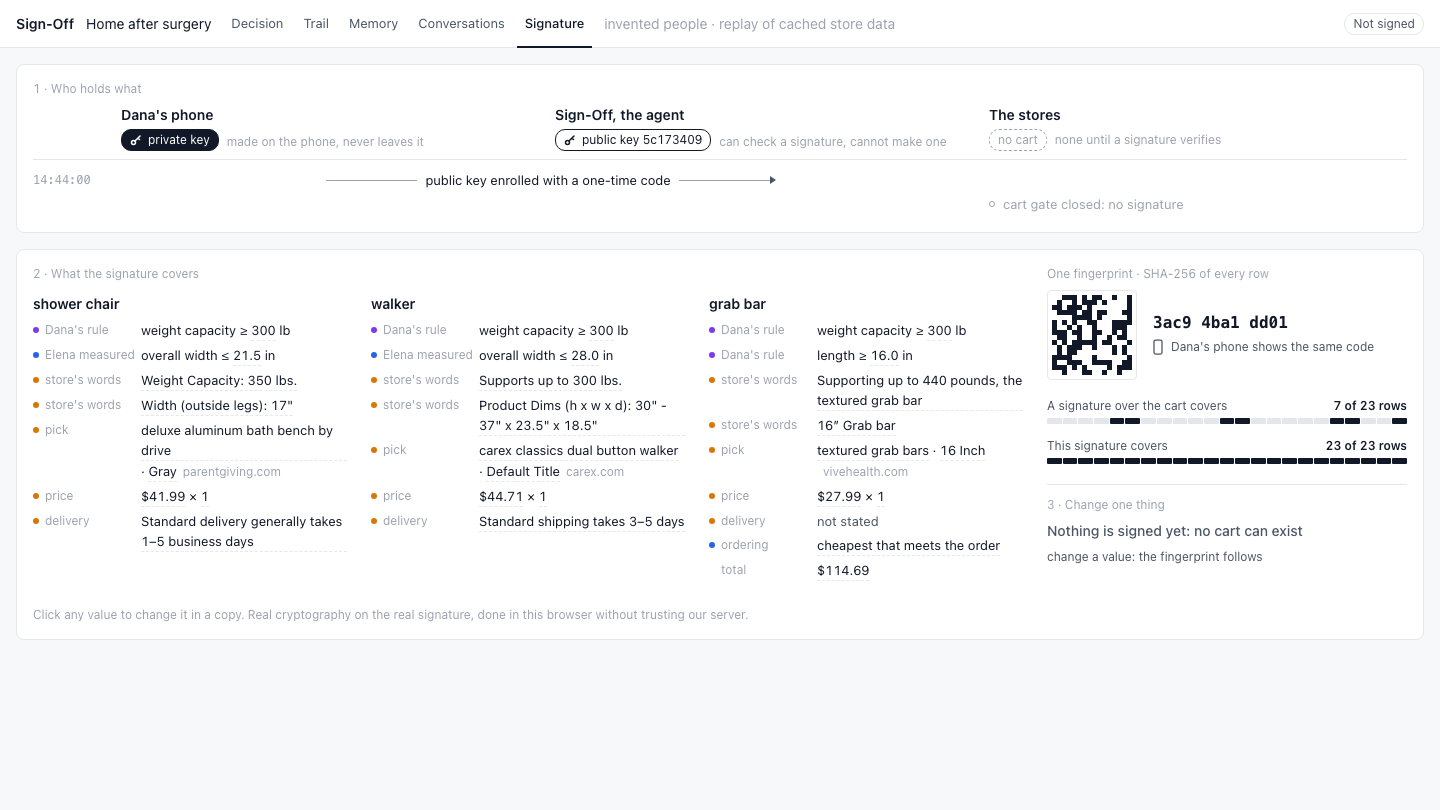
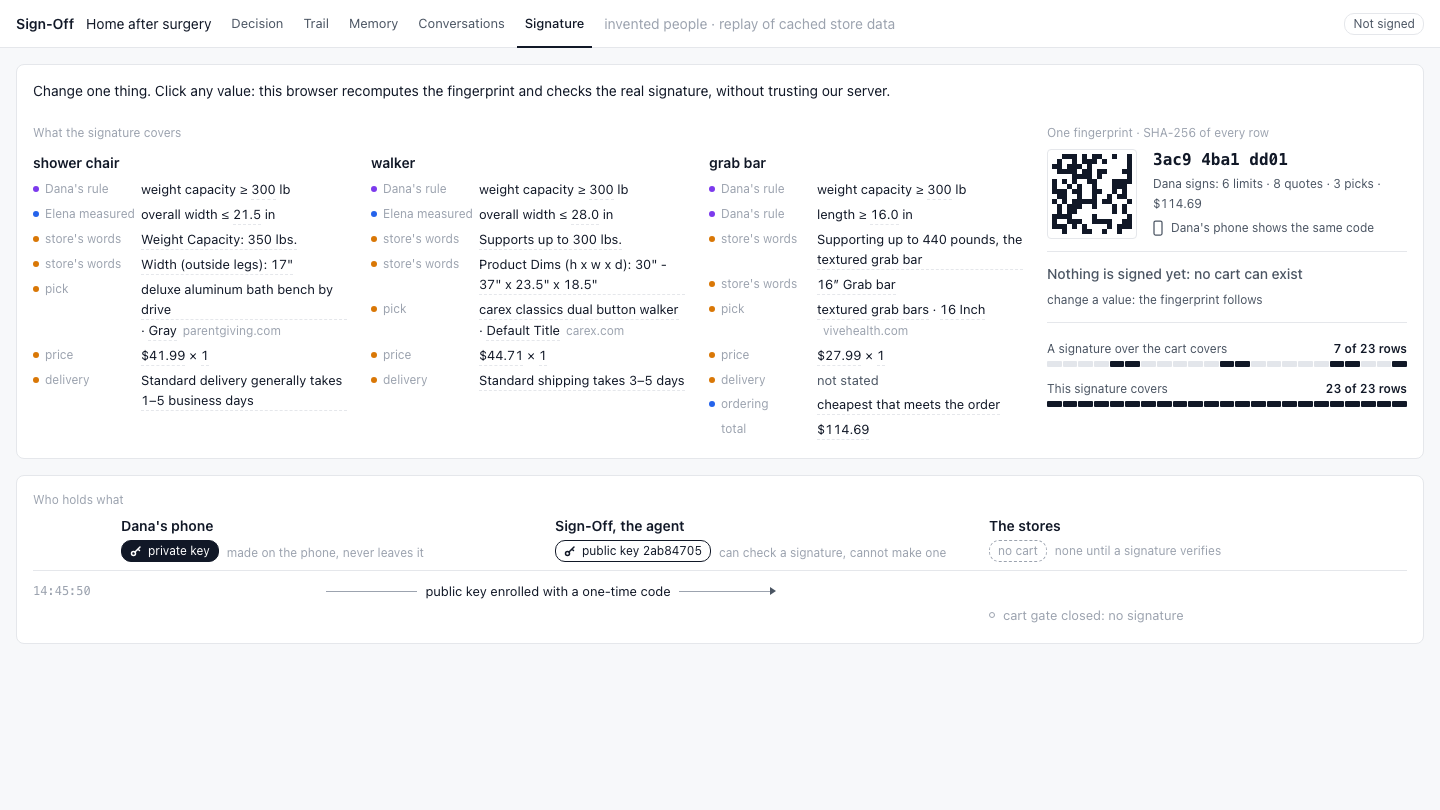
SEAL: K5 done: shots of every state, the check stays beside the rows at 150%, notes for SCREEN, SIGN, TRAIL, GRAPH

diff --git a/web/seal/seal.css b/web/seal/seal.css
@@ -85,3 +85,15 @@ button.cv:hover, button.cv[aria-pressed="true"] { background: var(--bg); }
 .covers .lead { flex-basis: 100%; font-size: 0.875rem; line-height: 1.25rem; color: var(--t1); }
 .sum { font-size: 0.75rem; color: var(--t2); }
 .empty { color: var(--t3); }
+
+/* a narrow window (150% zoom at 1440 wide): the fingerprint and the check sit above the rows, so a change and its
+   result are still seen together */
+@media (max-width: 72rem) {
+  .covers .lead { order: -2; }
+  .print { order: -1; flex: 1 1 100%; display: grid; grid-template-columns: auto minmax(0, 1fr) minmax(0, 1fr); gap: 0.5rem 2rem; align-items: start; }
+  .print > .cap { grid-column: 1 / -1; }
+  .print .fp { grid-area: 2 / 1; }
+  .print .sum { grid-area: 3 / 1 / auto / -1; }
+  #status { grid-area: 2 / 2; margin: 0; padding: 0; border: 0; }
+  #cover { grid-area: 2 / 3; margin: 0; padding: 0; border: 0; }
+}

diff --git a/web/seal/seal.js b/web/seal/seal.js
@@ -92,8 +92,8 @@ function renderCheck() {
   const onPhone = real.signedFingerprint || real.fingerprint;  // the phone computes it from the same canonical text
   const same = r.fingerprint === onPhone;
   q("#codes").innerHTML = `<span class="code ${same ? "" : "off"}" title="${esc(r.fingerprint)}">${esc(short(r.fingerprint))}</span>
-    <span class="sum">${esc(p.summary.text)}</span>
     <span class="phone">${ICON.phone}<span>${esc(who)}'s phone ${p.signed ? "showed" : "shows"} ${same ? "the same code" : `<code>${esc(short(onPhone))}</code>`}</span></span>`;
+  q("#sum").textContent = p.summary.text;
   const restore = edited ? `<button class="link" id="restore">Restore</button>` : "";
   let html;
   if (!p.signature || !p.public_key) {

diff --git a/web/seal/index.html b/web/seal/index.html
@@ -18,6 +18,7 @@
       <aside class="print" id="print">
         <div class="cap">One fingerprint · SHA-256 of every row</div>
         <div class="fp"><div class="pat" id="pat" aria-hidden="true"></div><div class="codes" id="codes"></div></div>
+        <div class="sum" id="sum"></div>
         <div id="status"></div>
         <div id="cover"></div>
       </aside>

diff --git a/NOTES/INTEGRATOR.md b/NOTES/INTEGRATOR.md
@@ -2052,3 +2052,42 @@ Calls on main at 15:15 (merge `stream/TALK` first and restart main, so it runs t
 - Will not make it: drawn flow lines from each row into the fingerprint (the rows sit beside it instead); a replay
   control for the lanes (they are drawn in order with their times). Parts 2 and 3 share one card: the rows on the left
   are the editable copy, the fingerprint and the check are on the right, so a change and its result are seen together.
+
+## TALK 14:50 — K5 done on `stream/TALK`; the judge's items A and B done
+- DONE K5: `/seal/` (`web/seal/index.html`, `seal.js`, `seal.css`, `verify.js`) and `GET /api/seal/proof`
+  (`signoff/seal/api.py`, read-only). Proof: `uv run pytest tests/seal -q` → `6 passed`. The test verifies a real saved
+  signature (`tests/seal/proof-signed.json`, saved from my port at 14:45), fails on a one-character change, and runs
+  `web/seal/verify.js` itself under node on the same proof: `valid: true`, then `valid: false` after one character.
+  Chrome did the same check on the page: see the shots. `./hk check` → `PASS (default) uv run -q pytest -q -x`.
+- What the page is, in the order it reads (the judge: "Change one thing" first):
+  1. Change one thing, with what the signature covers. 23 rows from the canonical sheet with owner dots (her rules, the
+     home's measurements, the store's words, picks, prices, delivery quotes, the ordering, the total), one column per
+     item. Every value is a button: an edit changes a copy in the page, the browser recomputes the SHA-256, the pattern
+     and the short code change, and the ECDSA check fails: "Not what Dana signed", the row marked, "Restore".
+     Unedited: "Verified in this browser with Dana's public key". Beside it: "A signature over the cart covers 7 of 23
+     rows" against "This signature covers 23 of 23 rows"; pressing the first dims the rows a cart does not hold.
+  2. Who holds what: three lanes, the private key drawn in the phone's lane, the public key in the agent's, the carts in
+     the stores'; the run's real events from the receipt chain in order with their times.
+- Exactly what the browser checks (and the test): SHA-256 of the canonical string's bytes equals the `sheet_hash` named
+  in the signed message; ECDSA P-256 over the message's bytes verifies with the enrolled key. For an edited copy it also
+  tries the signature against the message that would name the new fingerprint: that fails too. An edit splices the one
+  value into the original text, because a re-serialised copy is not the signed bytes (`16.0`, `–`): the test shows it.
+- Shots, each looked at, 1440 x 810, in `web/seal/shots/`: `seal-unsigned.png` (no key, "Nothing is signed yet: no cart can
+  exist", cart gate closed), `seal-unsigned-changed.png`, `seal-enrolled-unsigned.png`, `seal-signed.png` (verified),
+  `seal-changed.png` (300 → 250 fails), `seal-changed-quote.png` (a store quote edited), `seal-cart-coverage.png`,
+  `seal-lanes.png`, and at 150% zoom `seal-signed-150.png`, `seal-changed-150.png` (the check moves above the rows).
+- Honest limits: the signed state in the shots and the test is from my port in replay mode, signed with the kit's
+  `demo/signer.py` (the same message layout and algorithm as the phone, a key made in Python, not on a phone), identity by
+  Persona's sandbox through SIGN's simulate route, carts are replay carts. On main the page shows whatever main holds:
+  right now "nothing is signed yet". A signature is kept in memory only: restart main and it is gone, with its events.
+  Not built: drawn flow lines from the rows into the fingerprint, and a replay button for the lanes (they arrive in
+  order once, on load, unless the OS asks for reduced motion; the pattern's change on an edit always animates).
+- On main: merge, then restart main (the `/seal` mount is made at start, when `web/seal/` exists).
+  `curl -s localhost:8800/api/seal/proof | python3 -c "import json,sys; d=json.load(sys.stdin); print(d['signed'], d['summary'])"`
+  `?still` draws the lanes without the arrival motion (for a screenshot); `?edit=300~250` opens with that change made.
+- Judge A, `/talk/`: the rule chips are the first thing read (16 px, "may receive" in ink, "never" struck and quieter);
+  one conversation per store with "+N more"; "Not sent · the guard stopped it" in quiet ink, no red; no timestamps.
+  `web/talk/shots/talk-thread.png`, `talk-refused.png` retaken.
+- Judge B: the one line and the short code are in the proof (`summary`), with the rule to compute them, in NOTES/SCREEN.md
+  and NOTES/SIGN.md. One top bar: `/talk/` and `/seal/` print the five tabs; the markup is in NOTES/SCREEN.md,
+  NOTES/TRAIL.md and NOTES/GRAPH.md.

diff --git a/NOTES/SIGN.md b/NOTES/SIGN.md
@@ -60,3 +60,16 @@ answer (no exception); the other store's cart is still returned. Rows: `GET /api
 - `signoff.relay.status() -> dict | None` (never raises): `{"claim_type": "live_human_presence", "result": "passed", "sandbox": true, "at": ...}` once a person has taken the check, else `None`. Attach it to the signature record as optional key `relay` when present (omit the key when `None`); label it "sandbox" wherever you show it.
 - Page: `/relay/` (on main, works over the tunnel on a phone). The phone's Sign view can link to it (open in a new tab); the person taps "I am a real person", the page then shows "Live human: passed (sandbox)". Do it before signing; `relay.status()` keeps the last result in memory (a new `POST /api/issuer/relay/start` clears it).
 - Routes (optional router `signoff.relay.api`): `POST /api/issuer/relay/start`, `POST /api/issuer/relay/complete`, `GET /api/issuer/relay/status`. Nothing in the signature path should depend on it.
+
+## TALK 14:50 — one line where the signing happens, and the same short code in three places (the judge, item B)
+- The line: `Dana signs: 6 limits · 8 quotes · 3 picks · $114.69` and the code `3ac9 4ba1 dd01`. Both are data:
+  `GET /api/seal/proof` → `summary: {text, code, limits, quotes, picks, total_cents}` (read-only, on `stream/TALK`).
+- The same from your own copy of the canonical sheet, so the phone prints what it computed itself and not what the
+  server says (`c` is the parsed canonical sheet, `hash` its SHA-256 hex; on the phone these are `canon.obj`, `canon.hash`):
+  ```js
+  const picks = c.lines.filter((l) => l.pick), n = (k, one) => `${k} ${one}${k === 1 ? "" : "s"}`;
+  const line = `${name} signs: ${n(c.lines.reduce((a, l) => a + l.limits.length, 0), "limit")} · ${n(picks.reduce((a, l) => a + l.pick.quotes.length + (l.pick.delivery.quote ? 1 : 0), 0), "quote")} · ${n(picks.length, "pick")} · $${(c.total_cents / 100).toFixed(2)}`;
+  const code = hash.slice(0, 12).replace(/(.{4})(?=.)/g, "$1 ");
+  ```
+  quotes = each pick's figure quotes plus its delivery quote when the store stated one. `/seal/` prints the same line and code.
+- For the phone'"'"'s sign screen (`web/phone/index.html:369`, under "What you sign"): print `line` and `code` above the full hash.

diff --git a/NOTES/SCREEN.md b/NOTES/SCREEN.md
@@ -107,3 +107,20 @@ takes about ten seconds (remote database); later calls are cached for 20 s and a
 - Wording: "reviewers say", "the page states"; never "proves", never "best" without "reviewed". On sheet 4 today: L4 has an offer
   (Drive rollator, 4.6 of 5 from 58 reviews on the seller's own page, $119.99, not the pick); L1 and L5 have none and say why.
 - `POST /api/reviews/fetch {line_id}` (laptop only) searches for a line not yet searched; about 20 s for six products, then cached.
+
+## TALK 14:50 — one line where the signing happens, and the same short code in three places (the judge, item B)
+- The line: `Dana signs: 6 limits · 8 quotes · 3 picks · $114.69` and the code `3ac9 4ba1 dd01`. Both are data:
+  `GET /api/seal/proof` → `summary: {text, code, limits, quotes, picks, total_cents}` (read-only, on `stream/TALK`).
+- The same from your own copy of the canonical sheet, so the phone prints what it computed itself and not what the
+  server says (`c` is the parsed canonical sheet, `hash` its SHA-256 hex; on the phone these are `canon.obj`, `canon.hash`):
+  ```js
+  const picks = c.lines.filter((l) => l.pick), n = (k, one) => `${k} ${one}${k === 1 ? "" : "s"}`;
+  const line = `${name} signs: ${n(c.lines.reduce((a, l) => a + l.limits.length, 0), "limit")} · ${n(picks.reduce((a, l) => a + l.pick.quotes.length + (l.pick.delivery.quote ? 1 : 0), 0), "quote")} · ${n(picks.length, "pick")} · $${(c.total_cents / 100).toFixed(2)}`;
+  const code = hash.slice(0, 12).replace(/(.{4})(?=.)/g, "$1 ");
+  ```
+  quotes = each pick's figure quotes plus its delivery quote when the store stated one. `/seal/` prints the same line and code.
+- For the Signature card on the decision screen: print `summary.text` and `summary.code` (or compute them from
+  `/api/sheet/canonical`, which the screen can fetch).
+- One top bar on every page. `web/screen/ladder.js:31`: add `["/seal/", "Signature", "signoff.seal.api"]` to `TABS` and
+  `"/seal/"` to `KNOWN_PAGES`. The full markup, as `/talk/` and `/seal/` now print it:
+  `<nav class="tabs" aria-label="Views"><a href="/">Decision</a><a href="/trail/">Trail</a><a href="/graph/">Memory</a><a href="/talk/">Conversations</a><a href="/seal/">Signature</a></nav>`

diff --git a/NOTES/TRAIL.md b/NOTES/TRAIL.md
@@ -106,3 +106,7 @@ Every string that came from a store is untrusted text: escape it. Shape of one e
 - Know this: the ledger file is per checkout. The 14 searches were made from the REVIEWS checkout, so their rows are in the cache
   entries (`data/reviews/*.json`, field `ledger`) and in this route, not in main's `/api/egress`. A search made on main adds a row there.
 - Reviews are after the pick and beside it: they change no status and no pick. Please do not draw them as a gate.
+
+## TALK 14:50 — one top bar on every page (the integrator, 14:46)
+- Please print these five tabs, with `aria-current="page"` on your own: `<nav class="tabs" aria-label="Views"><a href="/">Decision</a><a href="/trail/">Trail</a><a href="/graph/">Memory</a><a href="/talk/">Conversations</a><a href="/seal/">Signature</a></nav>`
+  `/seal/` is the Signature page (`web/seal/`, on `stream/TALK`).

diff --git a/NOTES/GRAPH.md b/NOTES/GRAPH.md
@@ -63,3 +63,7 @@ store_answer → `value.line_id` when present. `GET /api/memory/recall` gives th
   search → recipient `exa.ai`; and from `GET /api/reviews` → `lines[].best_reviewed.candidate_id` as a dashed "offered to the shopper"
   edge. It is never an edge into the pick: `summary.applied` is always false.
 - Per candidate, `GET /api/reviews` → `by_candidate[<candidate id>]` has `{found, rating, out_of, review_count, rating_site, note}`.
+
+## TALK 14:50 — one top bar on every page (the integrator, 14:46)
+- Please print these five tabs, with `aria-current="page"` on your own: `<nav class="tabs" aria-label="Views"><a href="/">Decision</a><a href="/trail/">Trail</a><a href="/graph/">Memory</a><a href="/talk/">Conversations</a><a href="/seal/">Signature</a></nav>`
+  `/seal/` is the Signature page (`web/seal/`, on `stream/TALK`).
